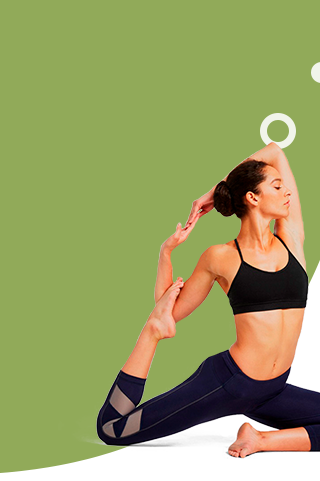
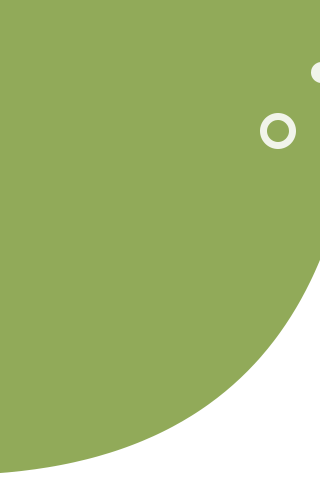
improved background resposive header section

Changed region(s): [[0.2812, 0.2807, 1.0, 0.9667]]

diff --git a/scss/blocks/_header.scss b/scss/blocks/_header.scss
@@ -127,7 +127,10 @@
 
 @media (max-width: $tablet-vers) {
   .header {
-    background-image: url(../images/header/background764-660.png);
+    background-image: url(../images/header/girl-764.png),
+      url(../images/header/background764-660.png);
+    background-size: 540px 609px, $background-size;
+    background-position: bottom 20px right 5%, center;
     height: 660px;
     padding: 11px 60px 0px 56px;
   }
@@ -177,7 +180,11 @@
 
 @media (max-width: $mobile-vers) {
   .header {
-    background-image: url(../images/header/background320-481.png);
+    background-image: url(../images/header/girl-320.png),
+      url(../images/header/background320-481.png);
+
+    background-size: 287px 318px, $background-size;
+    background-position: bottom 20px left 80%, center;
     height: 481px;
     padding: 0px;
   }
@@ -206,7 +213,8 @@
 
   .header__content-intro {
     width: 300px;
-    padding-left: 15px;
+
+    padding-left: 5%;
   }
 
   .content-intro {

diff --git a/css/style.css b/css/style.css
@@ -541,7 +541,9 @@ a {
 
 @media (max-width: 1360px) {
   .header {
-    background-image: url(../images/header/background764-660.png);
+    background-image: url(../images/header/girl-764.png), url(../images/header/background764-660.png);
+    background-size: 540px 609px, cover;
+    background-position: bottom 20px right 5%, center;
     height: 660px;
     padding: 11px 60px 0px 56px;
   }
@@ -576,7 +578,9 @@ a {
 }
 @media (max-width: 760px) {
   .header {
-    background-image: url(../images/header/background320-481.png);
+    background-image: url(../images/header/girl-320.png), url(../images/header/background320-481.png);
+    background-size: 287px 318px, cover;
+    background-position: bottom 20px left 80%, center;
     height: 481px;
     padding: 0px;
   }
@@ -598,7 +602,7 @@ a {
   }
   .header__content-intro {
     width: 300px;
-    padding-left: 15px;
+    padding-left: 5%;
   }
   .content-intro__title {
     font-size: 30px;
